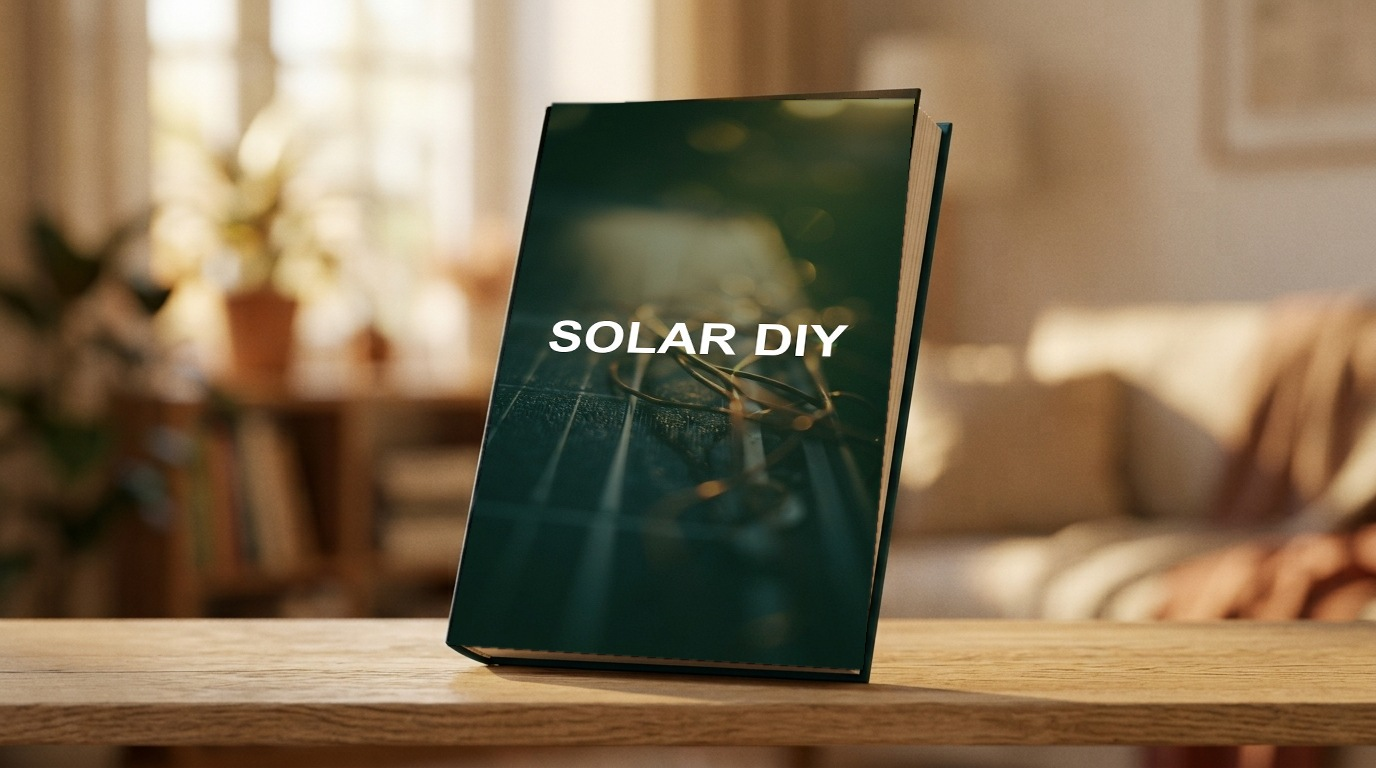
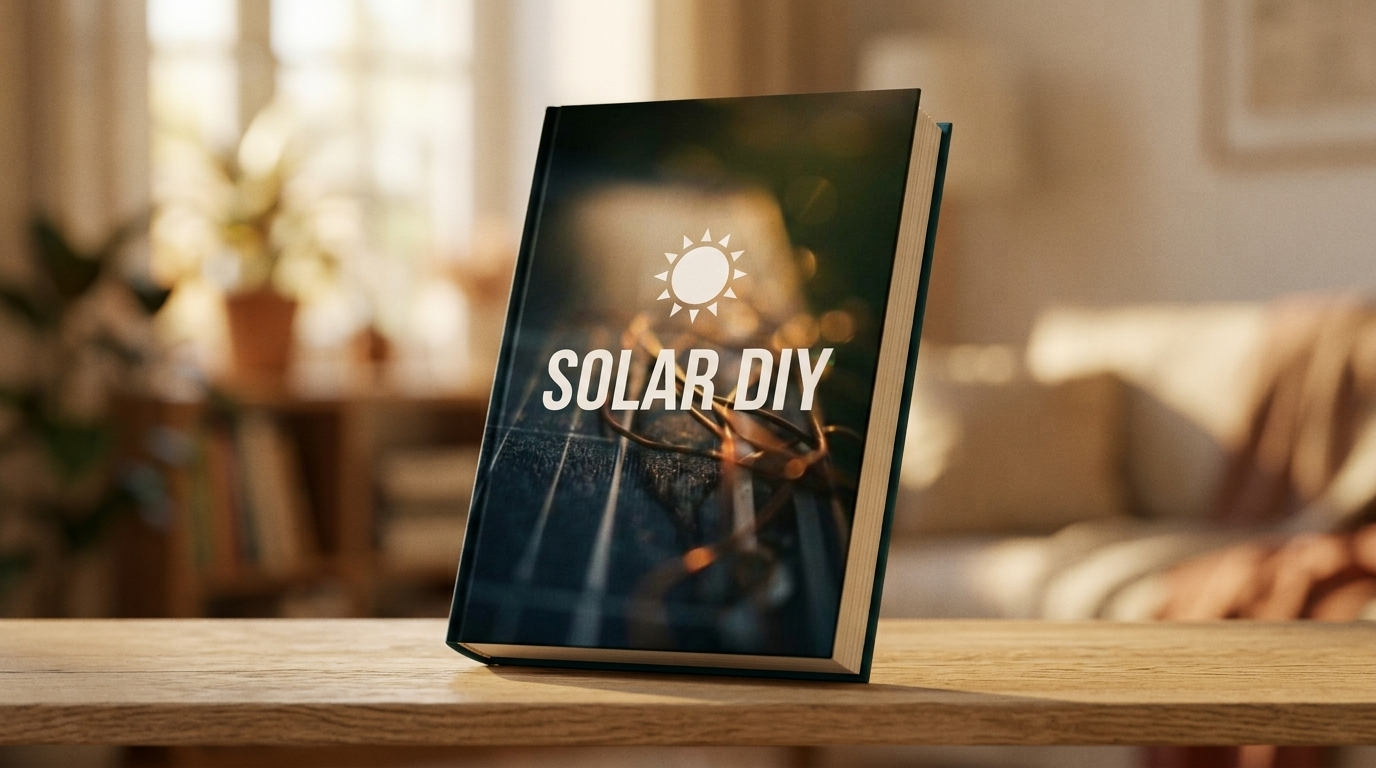
Usar la foto real del libro parado (con icono de sol) en todos los lugares donde aparece

Changed region(s): [[0.3125, 0.1875, 0.6562, 0.875], [0.5312, 0.125, 0.6875, 0.25], [0.375, 0.125, 0.4375, 0.1875]]

diff --git a/index.html b/index.html
@@ -425,7 +425,7 @@ src="https://www.facebook.com/tr?id=1205283937799798&ev=PageView&noscript=1"
 
 <!-- HERO con video de fondo -->
 <section class="hero">
-  <video class="hero-bg" autoplay muted loop playsinline poster="img/ebook-pedestal.jpg">
+  <video class="hero-bg" autoplay muted loop playsinline poster="img/ebook-parado-tapa-real.jpg">
     <source src="video/hero.mp4" type="video/mp4">
   </video>
   <div class="hero-overlay"></div>
